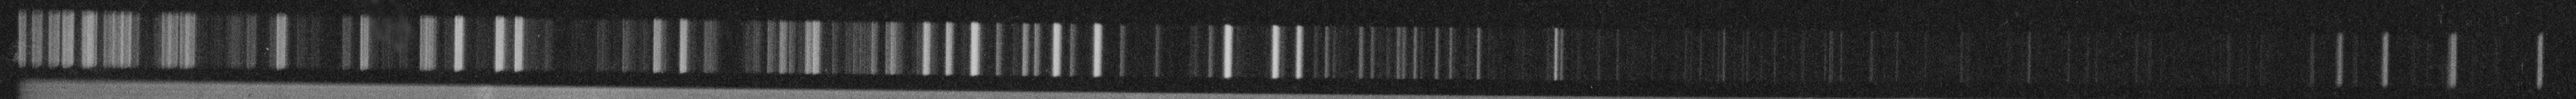
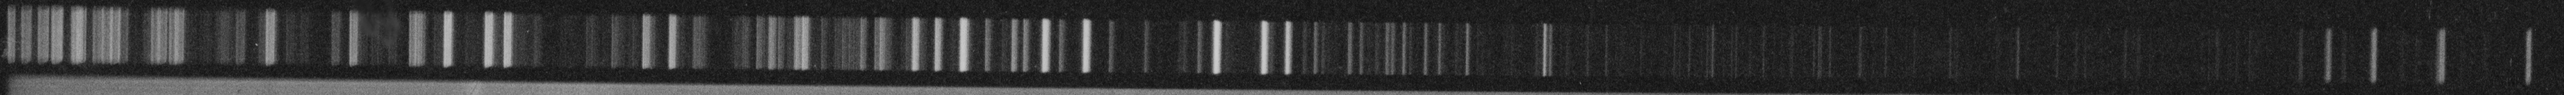
:sparkles: Mapeo prototipo de extraccion de espectro a lampara

Changed region(s): [[0.0, 0.0599, 0.6222, 0.8084], [0.0, 0.8084, 0.0311, 1.0], [0.9022, 0.2994, 0.9333, 0.3293]]

diff --git a/app/src/components/pages/StepFeatureExtraction.tsx b/app/src/components/pages/StepFeatureExtraction.tsx
@@ -13,7 +13,9 @@ import { Button } from "../atoms/button"
 import { ImageWithPixelExtraction } from "../organisms/ImageWithPixelExtraction"
 
 export function StepFeatureExtraction({ index, processInfo, setProcessInfo }: StepProps) {
-  const imageSrc = "/forTest/Science1.png"
+  const urlScience1 = "/forTest/Test1_Science1.png"
+  const urlLamp1 = "/forTest/Test1_Lamp1.png"
+  const urlLamp2 = "/forTest/Test1_Lamp2.png"
   const checkpoints = 10
   const segmentWidth = 120
   const [setActualStep, selectedSpectrum] = useGlobalStore(s => [
@@ -31,9 +33,15 @@ export function StepFeatureExtraction({ index, processInfo, setProcessInfo }: St
   const [opening, setOpening] = useState<number>(0)
   const [avgsPerpendicularArr, setAvgsPerpendicularArr] = useState<number[]>([])
 
+  // Para espectro de Lamp 1
+  const [lamp1pointsMed, setLamp1pointsMed] = useState<Point[]>([])
+  const [lamp1RectMedium, setLamp1RectMedium] = useState<(x: number) => number>(() => (x: number) => x)
+  const [lamp1Rects, setLamp1Rects] = useState<{ m: number, funct: ((x: number) => number) }[]>([])
+  const [lamp1AvgsPerpendicularArr, setLamp1AvgsPerpendicularArr] = useState<number[]>([])
+
   useEffect(() => {
     // Obtener informacion de imagen
-    obtainimageMatrix(imageSrc, false).then(({ data, width, height }) => {
+    obtainimageMatrix(urlScience1, false).then(({ data, width, height }) => {
       if (!data || data.length === 0)
         return
       setImageData({ data, width, height })
@@ -69,36 +77,22 @@ export function StepFeatureExtraction({ index, processInfo, setProcessInfo }: St
       setRectMedium(() => interpolateFunct)
 
       /**
-       * Arreglo con informacion de la pendiente que le corresponde a cada punto de la funcion.
-       */
-      const perpendicularRects: {
-        m: number
-        point: Point
-      }[] = []
-      for (let i = 0; i < width; i++) {
-        const act = { x: i, y: interpolateFunct(i) }
-        perpendicularRects.push({
-          m: derived(i),
-          point: act,
-        })
-      }
-
-      /**
        * Arreglo de funciones que para cada punto de la recta, dada una altura Y
        * indica el pixel X que le corresponde.
        */
       const perpendicularFunctions: {
         m: number
         funct: ((h: number) => number)
-      }[] = perpendicularRects.map((info) => {
-        const p1 = info.point
-        const m = -1 / info.m
-        const b = p1.y - m * p1.x
-        return {
-          m,
-          funct: (y: number) => ((y - b) / m),
-        } // Para cada Y me da ele x que le corresponde
-      })
+      }[] = []
+      for (let i = 0; i < width; i++) {
+        const p1 = { x: i, y: interpolateFunct(i) }
+        const m_perp = -1 / derived(i)
+        const b = p1.y - m_perp * p1.x
+        perpendicularFunctions.push({
+          m: m_perp,
+          funct: (y: number) => ((y - b) / m_perp), // Para cada Y me da ele x que le corresponde.
+        })
+      }
       setRects(perpendicularFunctions)
 
       /**
@@ -107,6 +101,9 @@ export function StepFeatureExtraction({ index, processInfo, setProcessInfo }: St
       const avgOpening = mean(plateauInfo.map(pi => pi.opening))
       setOpening(avgOpening)
 
+      /**
+       * Promedio de pixeles perpendiculares a la pendiente para cada pixel horizontal.
+       */
       const avgsPerpendicular: number[] = []
       for (let i = 0; i < perpendicularFunctions.length; i++) {
         const point = { x: i, y: interpolateFunct(i) }
@@ -126,10 +123,85 @@ export function StepFeatureExtraction({ index, processInfo, setProcessInfo }: St
           avgsPerpendicular.push(mean(values))
       }
       setAvgsPerpendicularArr(avgsPerpendicular)
+
+      // Lampara 1 datos relevantes.
+      // Obtener informacion de imagen de Lamp1
+      obtainimageMatrix(urlLamp1, false).then((lamp1) => {
+        /**
+         * Relacion de escala de dlampara 1 respecto al espectro de ciencia.
+         * valorLamp1 * scaleLamp1 === equivalenteScience1
+         */
+        const scaleLamp1 = width / lamp1.width
+
+        const valuesX = pointsWhitMedias.map(p => p.x)
+        const valuesY = pointsWhitMedias.map(p => p.y)
+
+        const scaledValuesX = valuesX.map(val => val * scaleLamp1)
+        const scaledValuesY = valuesY.map(val => val * scaleLamp1)
+
+        /** Puntos medios del espectro de lampara 1. */
+        const lamp1points = scaledValuesX.map((x, idx) => ({ x, y: scaledValuesY[idx] }))
+        setLamp1pointsMed(lamp1points)
+
+        /**
+         * Funcion media para Lampara 1, siempre da lo mismo que la del espectro de
+         * ciencia pero lo escala a la relacion de lamp1.
+         */
+        const l1RectMedium = (x: number) => (interpolateFunct(x) * scaleLamp1)
+        setLamp1RectMedium(() => l1RectMedium)
+
+        /** Funciones perpendiculares para Lampara 1. */
+        const lamp1PerpendicularFunctions: {
+          m: number
+          funct: ((h: number) => number)
+        }[] = []
+        for (let i = 0; i < lamp1.width; i++) {
+          const p1 = { x: i, y: l1RectMedium(i) }
+          const m_perp = -1 / derived(i) // Usa la deribada original, POSIBLE FUENTE DE ERROR
+          const b = p1.y - m_perp * p1.x
+          lamp1PerpendicularFunctions.push({
+            m: m_perp,
+            funct: (y: number) => ((y - b) / m_perp), // Para cada Y me da ele x que le corresponde.
+          })
+        }
+        setLamp1Rects(lamp1PerpendicularFunctions)
+
+        /**
+         * Promedio de pixeles perpendiculares a la pendiente para cada pixel horizontal
+         * de Lampara 1.
+         */
+        const avgsPerp: number[] = []
+        for (let i = 0; i < lamp1PerpendicularFunctions.length; i++) {
+          const point = { x: i, y: l1RectMedium(i) }
+          const { forward, backward } = extremePoints(
+            point,
+            lamp1PerpendicularFunctions[i].m,
+            avgOpening / 2,
+          )
+
+          const minY = round(min(forward.y, backward.y))
+          const maxY = round(max(forward.y, backward.y))
+          const values: number[] = getPointsInRect(
+            lamp1.data,
+            lamp1.width,
+            lamp1PerpendicularFunctions[i].funct,
+            minY,
+            maxY,
+          )
+
+          if (values.length === 0)
+            avgsPerp.push(0)
+          else
+            avgsPerp.push(mean(values))
+        }
+        setLamp1AvgsPerpendicularArr(avgsPerp)
+      }).catch((err) => {
+        console.error("Error loading Image Data:", err)
+      })
     }).catch((err) => {
       console.error("Error loading Image Data:", err)
     })
-  }, [imageSrc])
+  }, [urlScience1])
 
   function onComplete() {
     /// AGREGAR GUARDADO DE DATOS EXTRAIDOS
@@ -171,11 +243,11 @@ export function StepFeatureExtraction({ index, processInfo, setProcessInfo }: St
   return (
     <div className="w-full p-6 flex flex-col items-center">
       {imageData && (
-        <>
+        <div className="flex flex-col gap-4">
           <ImageWithPixelExtraction
             title="Science Spectrum"
-            imageUrl={imageSrc}
-            imageAlt="Pixel-by-pixel analysis of science spectrum to extract spectrum function"
+            imageUrl={urlScience1}
+            imageAlt="Pixel-by-pixel analysis of science spectrum to extract spectrum function."
             pointsWMed={pointsWMed}
             drawFunction={rectMedium}
             perpendicularFunctions={rects}
@@ -184,7 +256,19 @@ export function StepFeatureExtraction({ index, processInfo, setProcessInfo }: St
             <SimpleFunctionXY data={avgsPerpendicularArr} />
           </ImageWithPixelExtraction>
 
-        </>
+          <ImageWithPixelExtraction
+            title="Lamp 1 Spectrum"
+            imageUrl={urlLamp1}
+            imageAlt="Pixel-by-pixel inference of the scientific spectrum of comparison lamp 1."
+            pointsWMed={lamp1pointsMed}
+            drawFunction={lamp1RectMedium}
+            perpendicularFunctions={lamp1Rects}
+            opening={opening}
+          >
+            <SimpleFunctionXY data={lamp1AvgsPerpendicularArr} />
+          </ImageWithPixelExtraction>
+
+        </div>
       )}
       <hr className="w-full mb-4"></hr>
       <Button onClick={() => onComplete()}>

diff --git a/app/src/lib/image.ts b/app/src/lib/image.ts
@@ -22,7 +22,7 @@ export function getPointsInRect(
   const rectPoints: number[] = []
   for (let y = minY; y < maxY; y++) {
     const coordenadaX = round(rect(y))
-    if(coordenadaX<0 ||coordenadaX >= width)
+    if (coordenadaX < 0 || coordenadaX >= width)
       continue
     // Valor correspondiente a imagen en pixel (coordenadaX, y)
     const index = (y * width + coordenadaX) * 4
